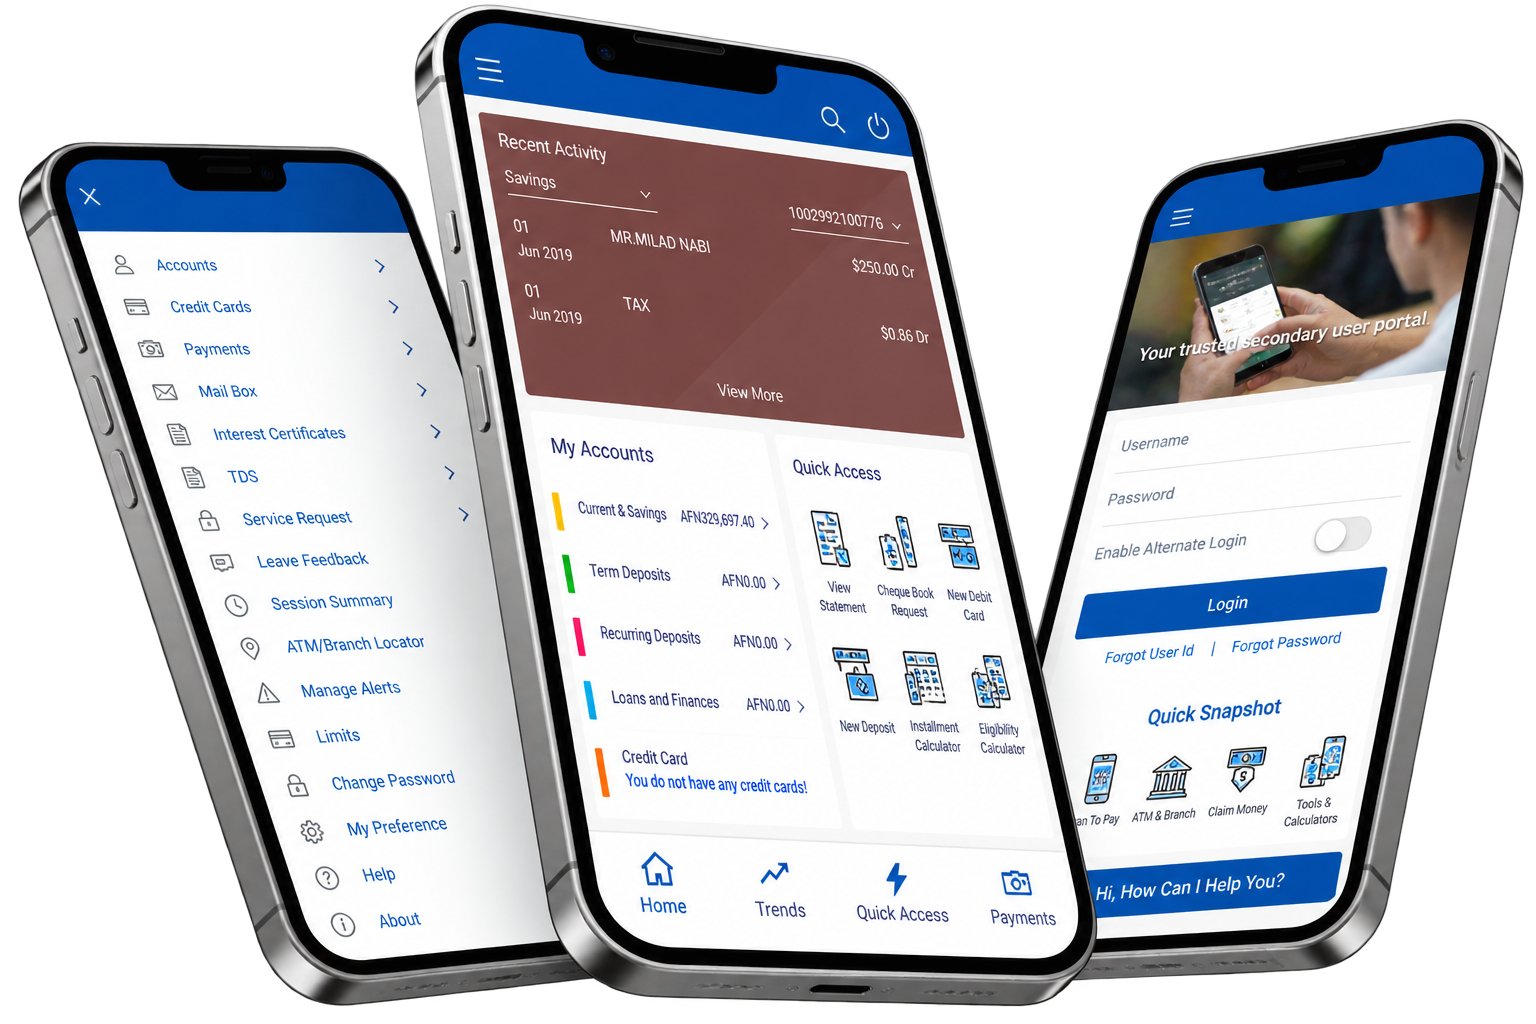
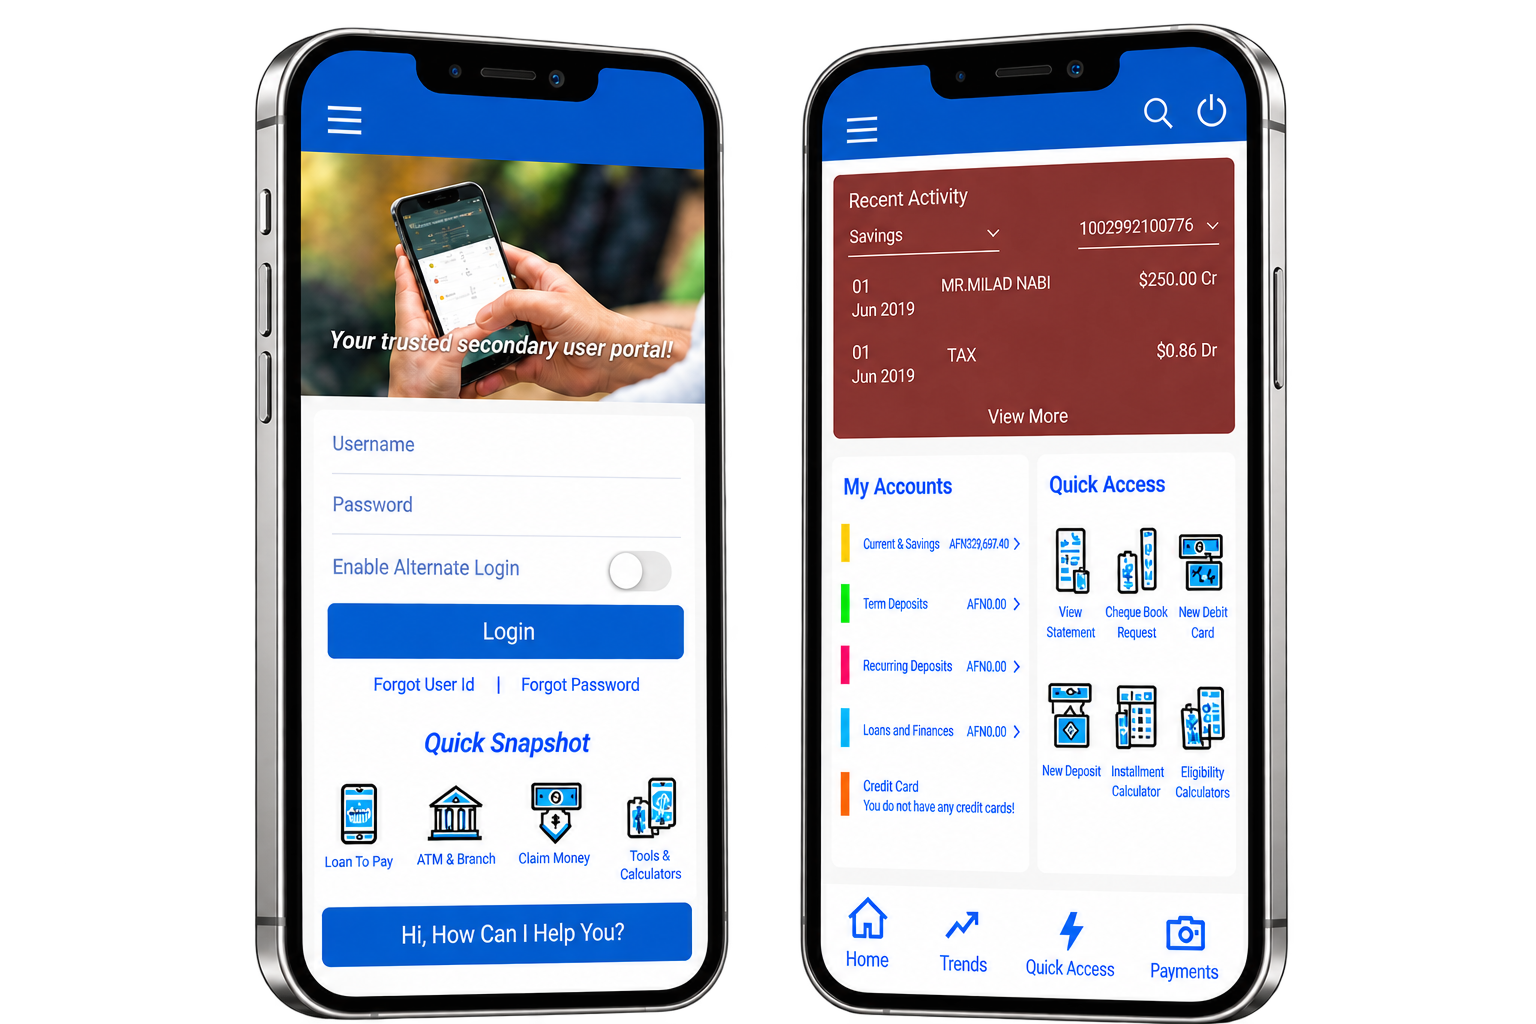
Update app promo image size, animation and title layout

diff --git a/index.html b/index.html
@@ -633,24 +633,25 @@
      container width to the full page width (and lose its rounding) as the
      section scrolls into view, while the copy and phone stay put */
   .app-promo-card{position:relative;isolation:isolate;padding:56px;
-    display:grid;grid-template-columns:1fr 1fr;gap:40px;align-items:center;}
+    display:grid;grid-template-columns:1.05fr .95fr;gap:40px;align-items:center;}
   .app-promo__bg{position:absolute;top:0;bottom:0;left:50%;width:var(--bg-w,100%);transform:translateX(-50%);
     z-index:-1;pointer-events:none;overflow:hidden;background:#155f8f;
     border-radius:var(--bg-r,28px);will-change:width,border-radius;}
   .app-promo__glow{position:absolute;pointer-events:none;width:440px;height:440px;border-radius:50%;
     background:#fff;opacity:.16;filter:blur(90px);right:6%;top:50%;transform:translateY(-50%);}
   .app-promo-visual{position:relative;z-index:1;}
-  .app-promo-visual img{display:block;width:100%;max-width:400px;margin:0 auto;
+  .app-promo-visual img{display:block;width:125%;max-width:none;margin:0 -12.5%;
     transform:scale(.9);transform-origin:center bottom;will-change:transform;}
   @media (prefers-reduced-motion: reduce){ .app-promo-visual img{transform:none;} }
   .app-promo-copy{position:relative;z-index:1;}
   .app-promo-eyebrow{display:inline-flex;align-items:center;gap:8px;color:#fff;font-size:13px;font-weight:800;
     letter-spacing:.06em;text-transform:uppercase;margin-bottom:18px;}
   .app-promo-eyebrow svg{width:16px;height:16px;}
-  .app-promo-copy h2{color:#fff;font-size:var(--h2-size);font-weight:700;line-height:1.2;letter-spacing:-.01em;margin:0 0 16px;max-width:560px;}
+  .app-promo-copy h2{color:#fff;font-size:var(--h2-size);font-weight:700;line-height:1.2;letter-spacing:-.01em;margin:0 0 16px;max-width:640px;text-wrap:balance;}
   .app-promo-copy p{color:rgba(255,255,255,.72);font-size:16px;line-height:1.65;margin:0 0 30px;max-width:440px;}
   @media (max-width:800px){
     .app-promo-card{grid-template-columns:1fr;text-align:center;padding:40px 28px;}
+    .app-promo-visual img{width:100%;max-width:520px;margin:0 auto;}
     .app-promo-copy h2, .app-promo-copy p{margin-left:auto;margin-right:auto;}
     .app-promo-copy .store-row{justify-content:center;}
   }
@@ -926,6 +927,15 @@
     .pcard h3, .pcard p{transition:none;}
     .pcard:hover h3, .pcard:hover p{transform:none;}
   }
+
+  /* app promo image: gentle floating drift + soft glow pulse behind it */
+  .app-promo-visual::before{content:"";position:absolute;left:50%;top:55%;width:70%;aspect-ratio:1;z-index:-1;border-radius:50%;
+    background:radial-gradient(circle,rgba(255,255,255,.28),rgba(255,255,255,0) 68%);transform:translate(-50%,-50%);
+    animation:appGlow 6s ease-in-out infinite alternate;pointer-events:none;}
+  .app-promo-visual{animation:appFloat 7s ease-in-out infinite alternate;}
+  @keyframes appFloat{from{transform:translateY(-8px) rotate(-.6deg);}to{transform:translateY(10px) rotate(.6deg);}}
+  @keyframes appGlow{from{opacity:.55;transform:translate(-50%,-50%) scale(.9);}to{opacity:1;transform:translate(-50%,-50%) scale(1.1);}}
+  @media (prefers-reduced-motion: reduce){ .app-promo-visual, .app-promo-visual::before{animation:none;} }
 </style>
 <script>
   /* Runs before first paint so [data-reveal] only hides content when JS is
@@ -2074,7 +2084,7 @@
     if (!img) return;
     scrollLinkedProgress(visual, function(progress){
       var narrow = matchMedia("(max-width: 700px)").matches;
-      var MIN = narrow ? 0.95 : 0.88, MAX = narrow ? 1.0 : 1.05;
+      var MIN = narrow ? 0.95 : 0.92, MAX = narrow ? 1.0 : 1.08;
       img.style.transform = "scale(" + (MIN + (MAX - MIN) * progress).toFixed(4) + ")";
     });
   })();
